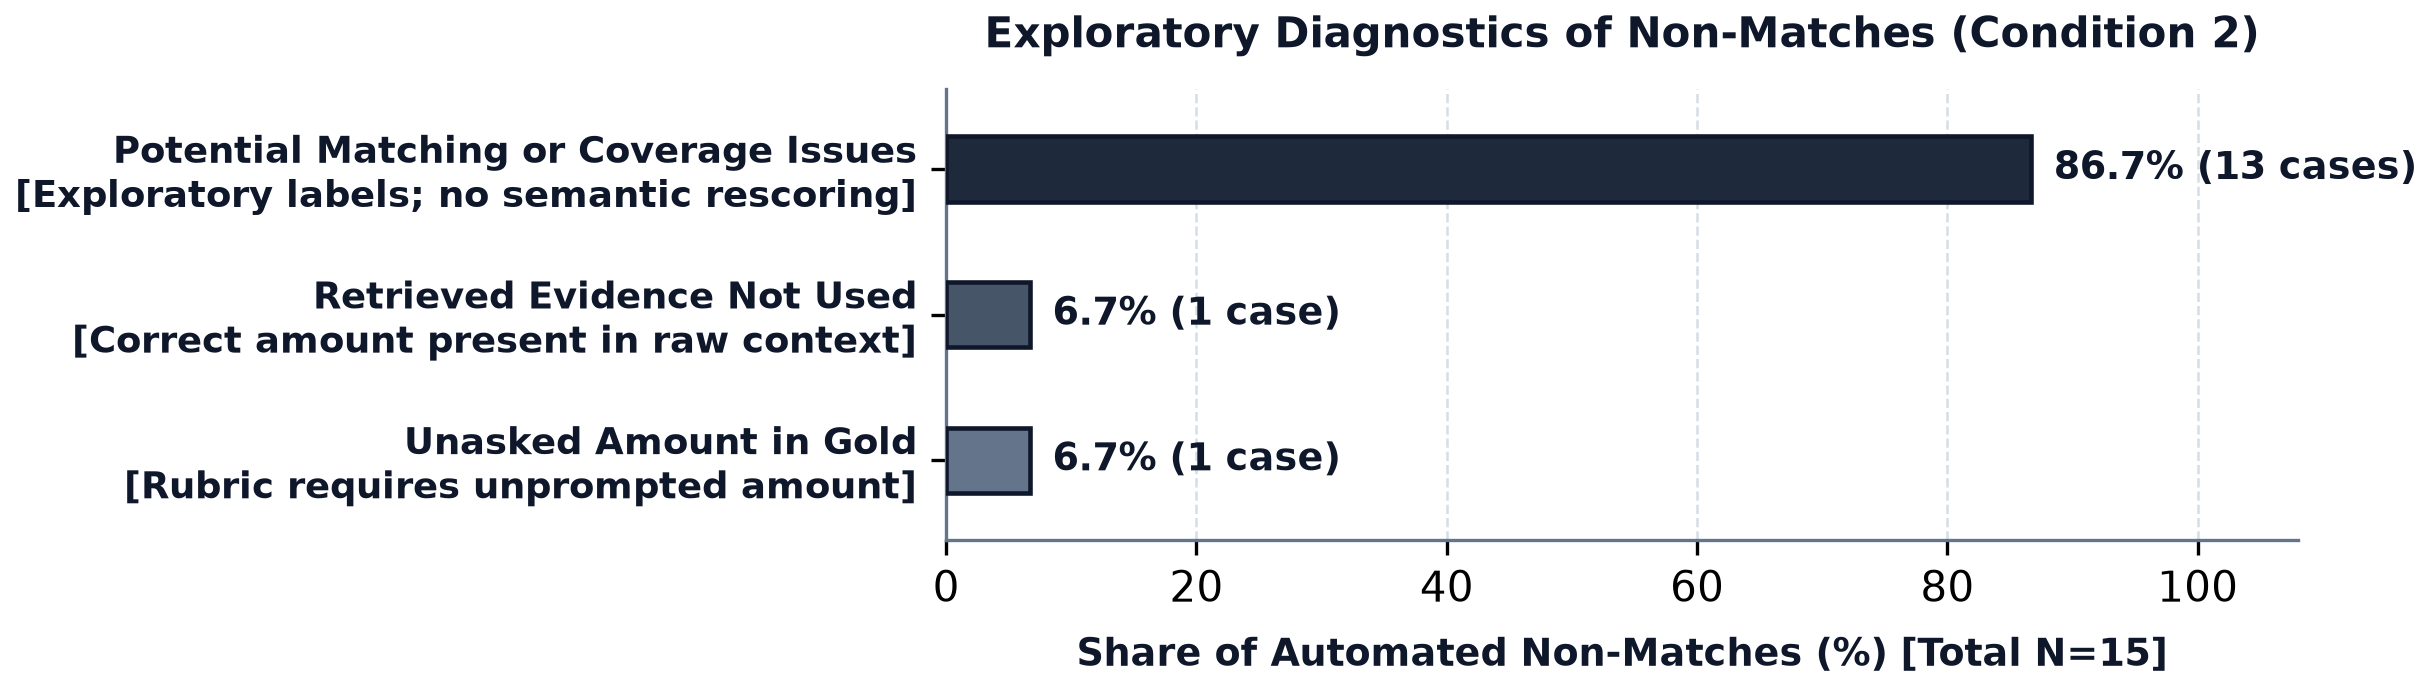
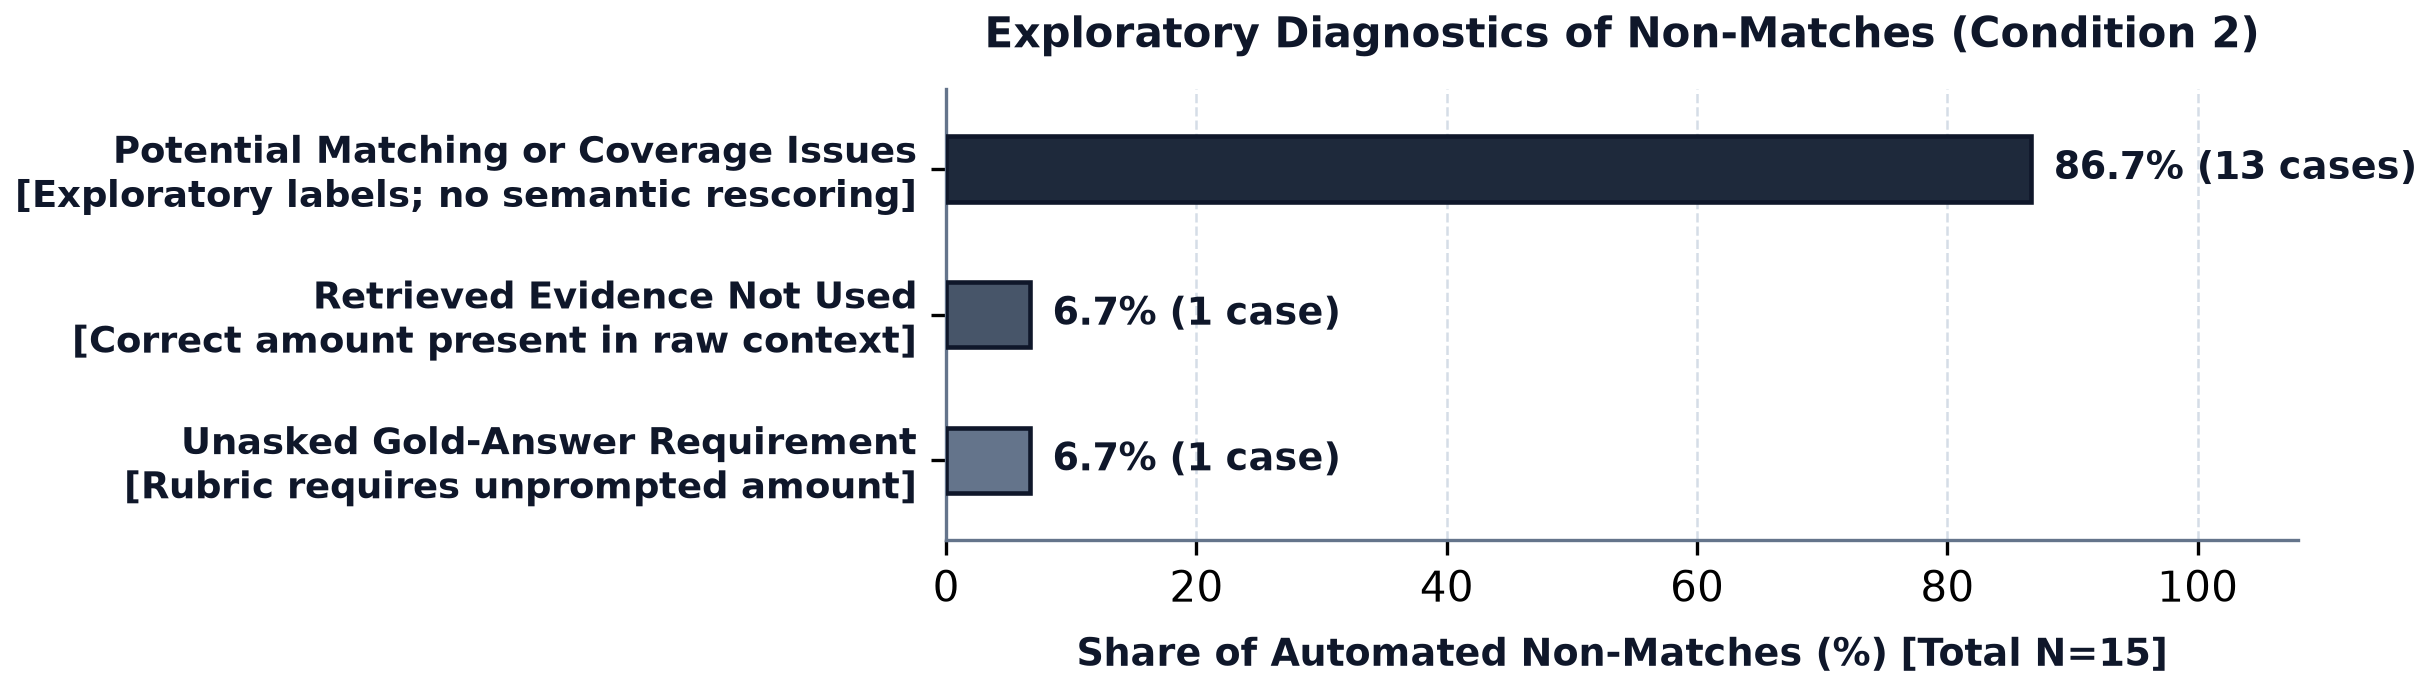
docs: align Figure 4 category 3 to Unasked Gold-Answer Requirement

Changed region(s): [[0.0617, 0.6087, 0.3702, 0.6696]]

diff --git a/scripts/generate_failure_figure.py b/scripts/generate_failure_figure.py
@@ -24,7 +24,7 @@ def main():
     categories = [
         "Potential Matching or Coverage Issues\n[Exploratory labels; no semantic rescoring]",
         "Retrieved Evidence Not Used\n[Correct amount present in raw context]",
-        "Unasked Amount in Gold\n[Rubric requires unprompted amount]"
+        "Unasked Gold-Answer Requirement\n[Rubric requires unprompted amount]"
     ]
     counts = [13, 1, 1]
     pcts = [86.7, 6.7, 6.7]
